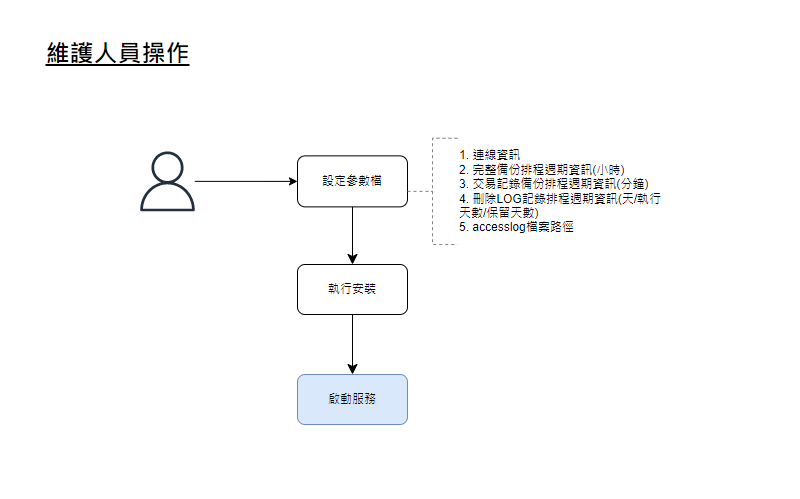
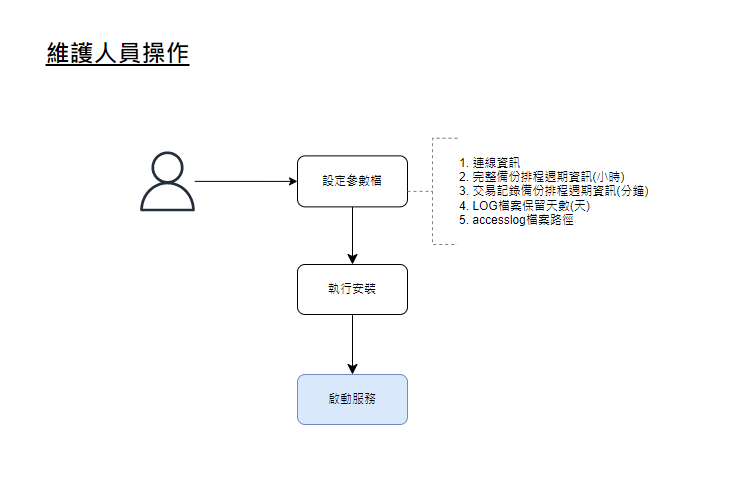
#9196 行動辦公雲資料庫備份服務

diff --git a/asus/ASUSMaintainTool/DBBackup/SA/README.md b/asus/ASUSMaintainTool/DBBackup/SA/README.md
@@ -7,15 +7,15 @@
             * 讀取站台資料庫的設定，將資料庫備份清單依據備份路徑分組後，依據分組數量產生執行緒進行各分組的備份作業
                 * 執行緒內需做以下工作
                     * 執行一次資料庫交易紀錄的備份
-                        * 資料庫名稱_yyyymmddhhMMss.trn
+                        * 資料庫名稱_yyyymmddHHMMss.trn
                         * 若該檔案名稱已存在，則不執行此交易紀錄備份，避免重複執行。
                     * 執行一次資料庫完整備份
-                        * 資料庫名稱_yyyymmddhhMMss.bak
+                        * 資料庫名稱_yyyymmddHHMMss.bak
         * 資料庫交易紀錄備份排程
             * 讀取站台資料庫的設定，將資料庫備份清單依據備份路徑分組後，依據分組數量產生執行緒進行各分組的備份作業
                 * 執行緒內需做以下工作
                     * 執行一次資料庫交易紀錄的備份
-                        * 資料庫名稱_yyyymmddhhMMss.trn
+                        * 資料庫名稱_yyyymmddHHMMss.trn
                         * 若該檔案名稱已存在，則不執行此交易紀錄備份，避免重複執行。
     * 各備份排程須依據RTE引擎對於各組織資料庫的分組來決定同時啟動多少個執行緒
         * 舉例，若查詢站台管理資料庫後，各資料庫的備份路徑共有6組，表示上述兩個備份排程會各自啟動6個執行緒，依據各分組清單循序執行備份。

diff --git a/asus/ASUSMaintainTool/DBBackup/Config/README.md b/asus/ASUSMaintainTool/DBBackup/Config/README.md
@@ -28,11 +28,9 @@
                 * 用途說明：資料庫完整備份週期(單位=小時)，預設 168
             * backup.log.cycle
                 * 用途說明：資料庫交易記錄備份週期(單位=分鐘)，預設 10
-            * log.delete.check.cycle=1
-                * 用途說明：刪除log檔檢查週期(單位=天)，預設 1
-            * log.keep.day=365
+            * log.keep.day
                 * 用途說明：log檔保留天數(單位=天)，預設 365
-            * log.accesslog.path=.\\\logs
+            * log.accesslog.path
                 * 用途說明：accesslog檔案路徑
                 * 注意事項：資料夾路徑需存在於DB Server上，且資料夾分隔符號須注意逃脫字元，路徑格式範例: D:\\\logs 或 .\\\logs
     * 執行【install.bat】進行安裝 (安裝完成視窗會自動關閉)
